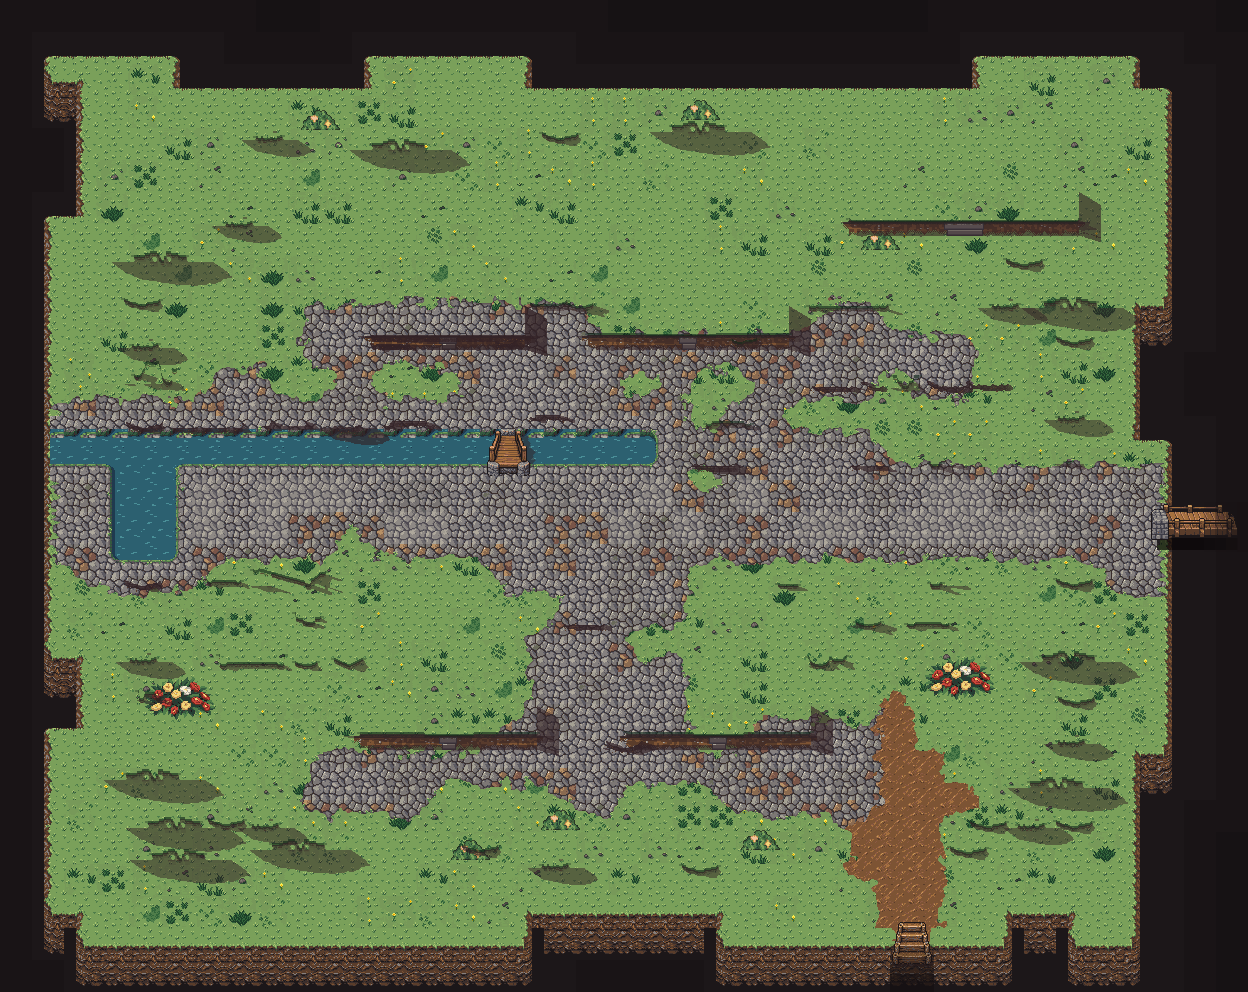
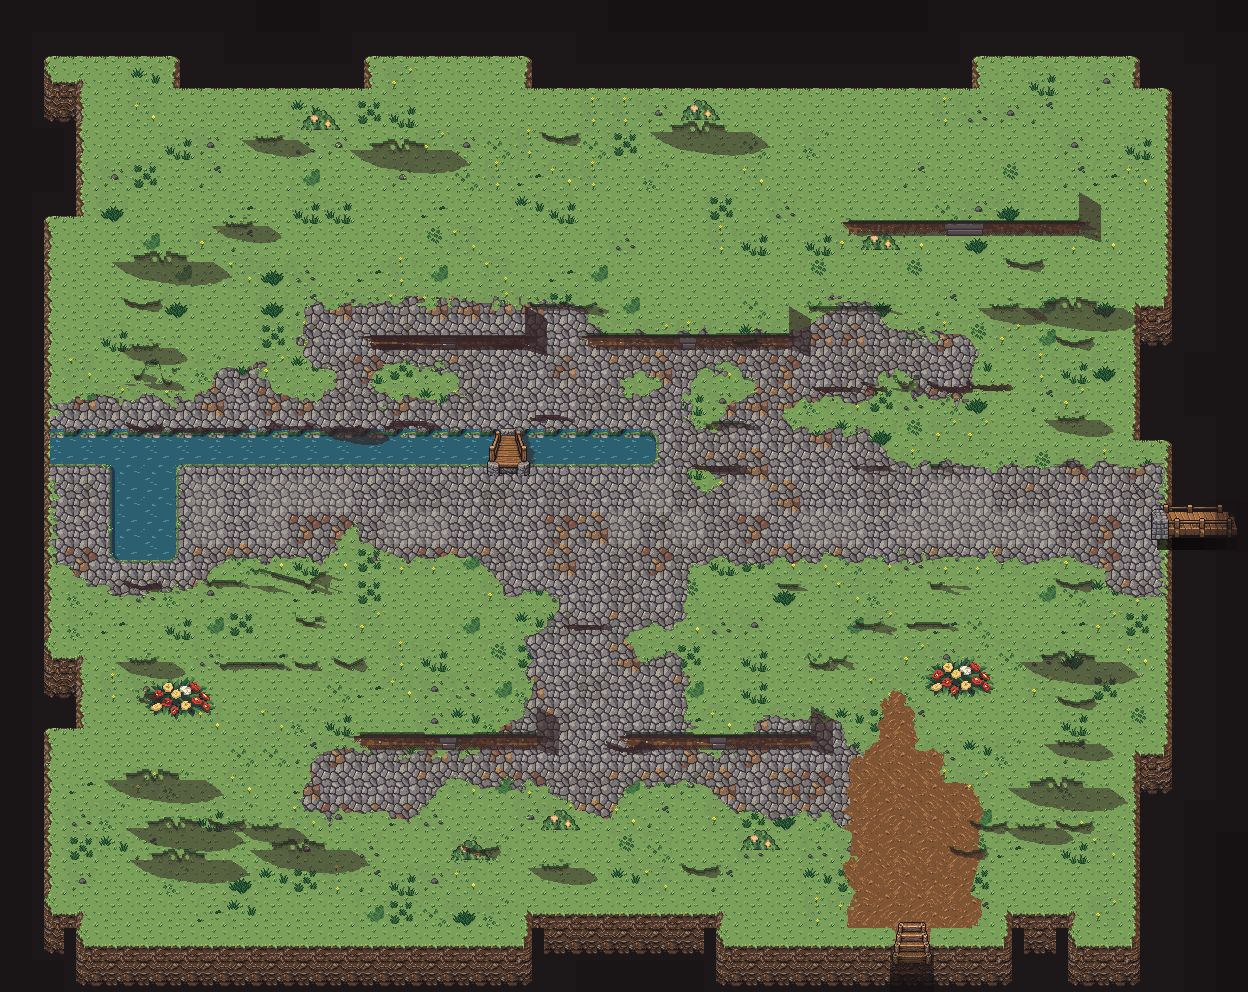
Quilt the dirt so its streaks never line up in a grid
One plain dirt tile sampled by modulo read as wallpaper on the river
landing; each dirt pixel now samples it with an offset (some mirrored) by
wide, warped regions, and the plate is rebaked.

Claude-Session: https://claude.ai/code/session_01H8JDTPYztrZvUL5HBCK6eR

diff --git a/scripts/art/topdown/pack-ground.ts b/scripts/art/topdown/pack-ground.ts
@@ -293,6 +293,26 @@ export interface Baked {
   readonly placed: readonly Placed[];
 }
 
+/**
+ * Where a dirt pixel samples the one plain dirt tile: quilted (`art-lessons.md`: one Wang tile sampled
+ * by modulo is wallpaper) over wide, warped regions, each with its own offset and some mirrored, so its
+ * streaks never line up in a grid. The plain tile is seamless, so only the regions' wandering borders
+ * can show a join.
+ */
+const QUILT = [
+  [0, 0, false],
+  [11, 19, true],
+  [23, 5, false],
+  [6, 27, true],
+] as const;
+export function dirtIndex(wx: number, wy: number): number {
+  const r = Math.max(0, Math.min(3, Math.floor((vnoise(wx, wy, 61, 48) + 1) * 2)));
+  const [ox, oy, flip] = QUILT[r] ?? QUILT[0];
+  const u = (wx + ox) % T,
+    v = (wy + oy) % T;
+  return (v * T + (flip ? T - 1 - u : u)) * 4;
+}
+
 /** Cliff tile index for tile (x, y): exact pattern first, else the nearest (the prototype's `cliffTile`). */
 const CLIFF = cliffPatterns.tiles
   .map((t, i) => ({ i, pat: t.pat, spec: t.pat.filter((v) => v !== 255).length }))
@@ -426,7 +446,14 @@ export function bake(objects: readonly TopDownObject[] = BA_DAN_TOPDOWN_LAYOUT.o
       }
       if (!drawn) {
         const tile = src.wang[set].get(bits);
-        if (tile) draw(g, tile, x * T, y * T);
+        if (tile && pure && c[0] === 'D')
+          for (let py = 0; py < T; py++)
+            for (let px = 0; px < T; px++) {
+              const o = ((y * T + py) * PW + x * T + px) * 4,
+                k = dirtIndex(x * T + px, y * T + py);
+              for (let ch = 0; ch < 4; ch++) d[o + ch] = at(tile.data, k + ch);
+            }
+        else if (tile) draw(g, tile, x * T, y * T);
       }
       if (pure) setClass(x * T, y * T, T, T, classOf(c[0] ?? 'G'));
       else
@@ -481,7 +508,7 @@ export function bake(objects: readonly TopDownObject[] = BA_DAN_TOPDOWN_LAYOUT.o
           const paving = f > 0.5,
             isDirt = paving && fd > 0.5,
             s = paving ? (isDirt ? pureD : cobble) : gt,
-            j = (py * T + px) * 4,
+            j = isDirt ? dirtIndex(wx, wy) : (py * T + px) * 4,
             o = (wy * PW + wx) * 4;
           d[o] = at(s.data, j);
           d[o + 1] = at(s.data, j + 1);
@@ -628,7 +655,7 @@ export function bake(objects: readonly TopDownObject[] = BA_DAN_TOPDOWN_LAYOUT.o
           half = 30 - yy * 0.3 + vnoise(wx, wy, 51, 4) * 4;
         if (Math.abs(wx - cx) > half || wy > B * T + 17 + vnoise(wx, 0, 53, 3) * 2) continue;
         const j = (wy * PW + wx) * 4,
-          k = ((wy % T) * T + (wx % T)) * 4;
+          k = dirtIndex(wx, wy);
         d[j] = at(dirtTile.data, k);
         d[j + 1] = at(dirtTile.data, k + 1);
         d[j + 2] = at(dirtTile.data, k + 2);
